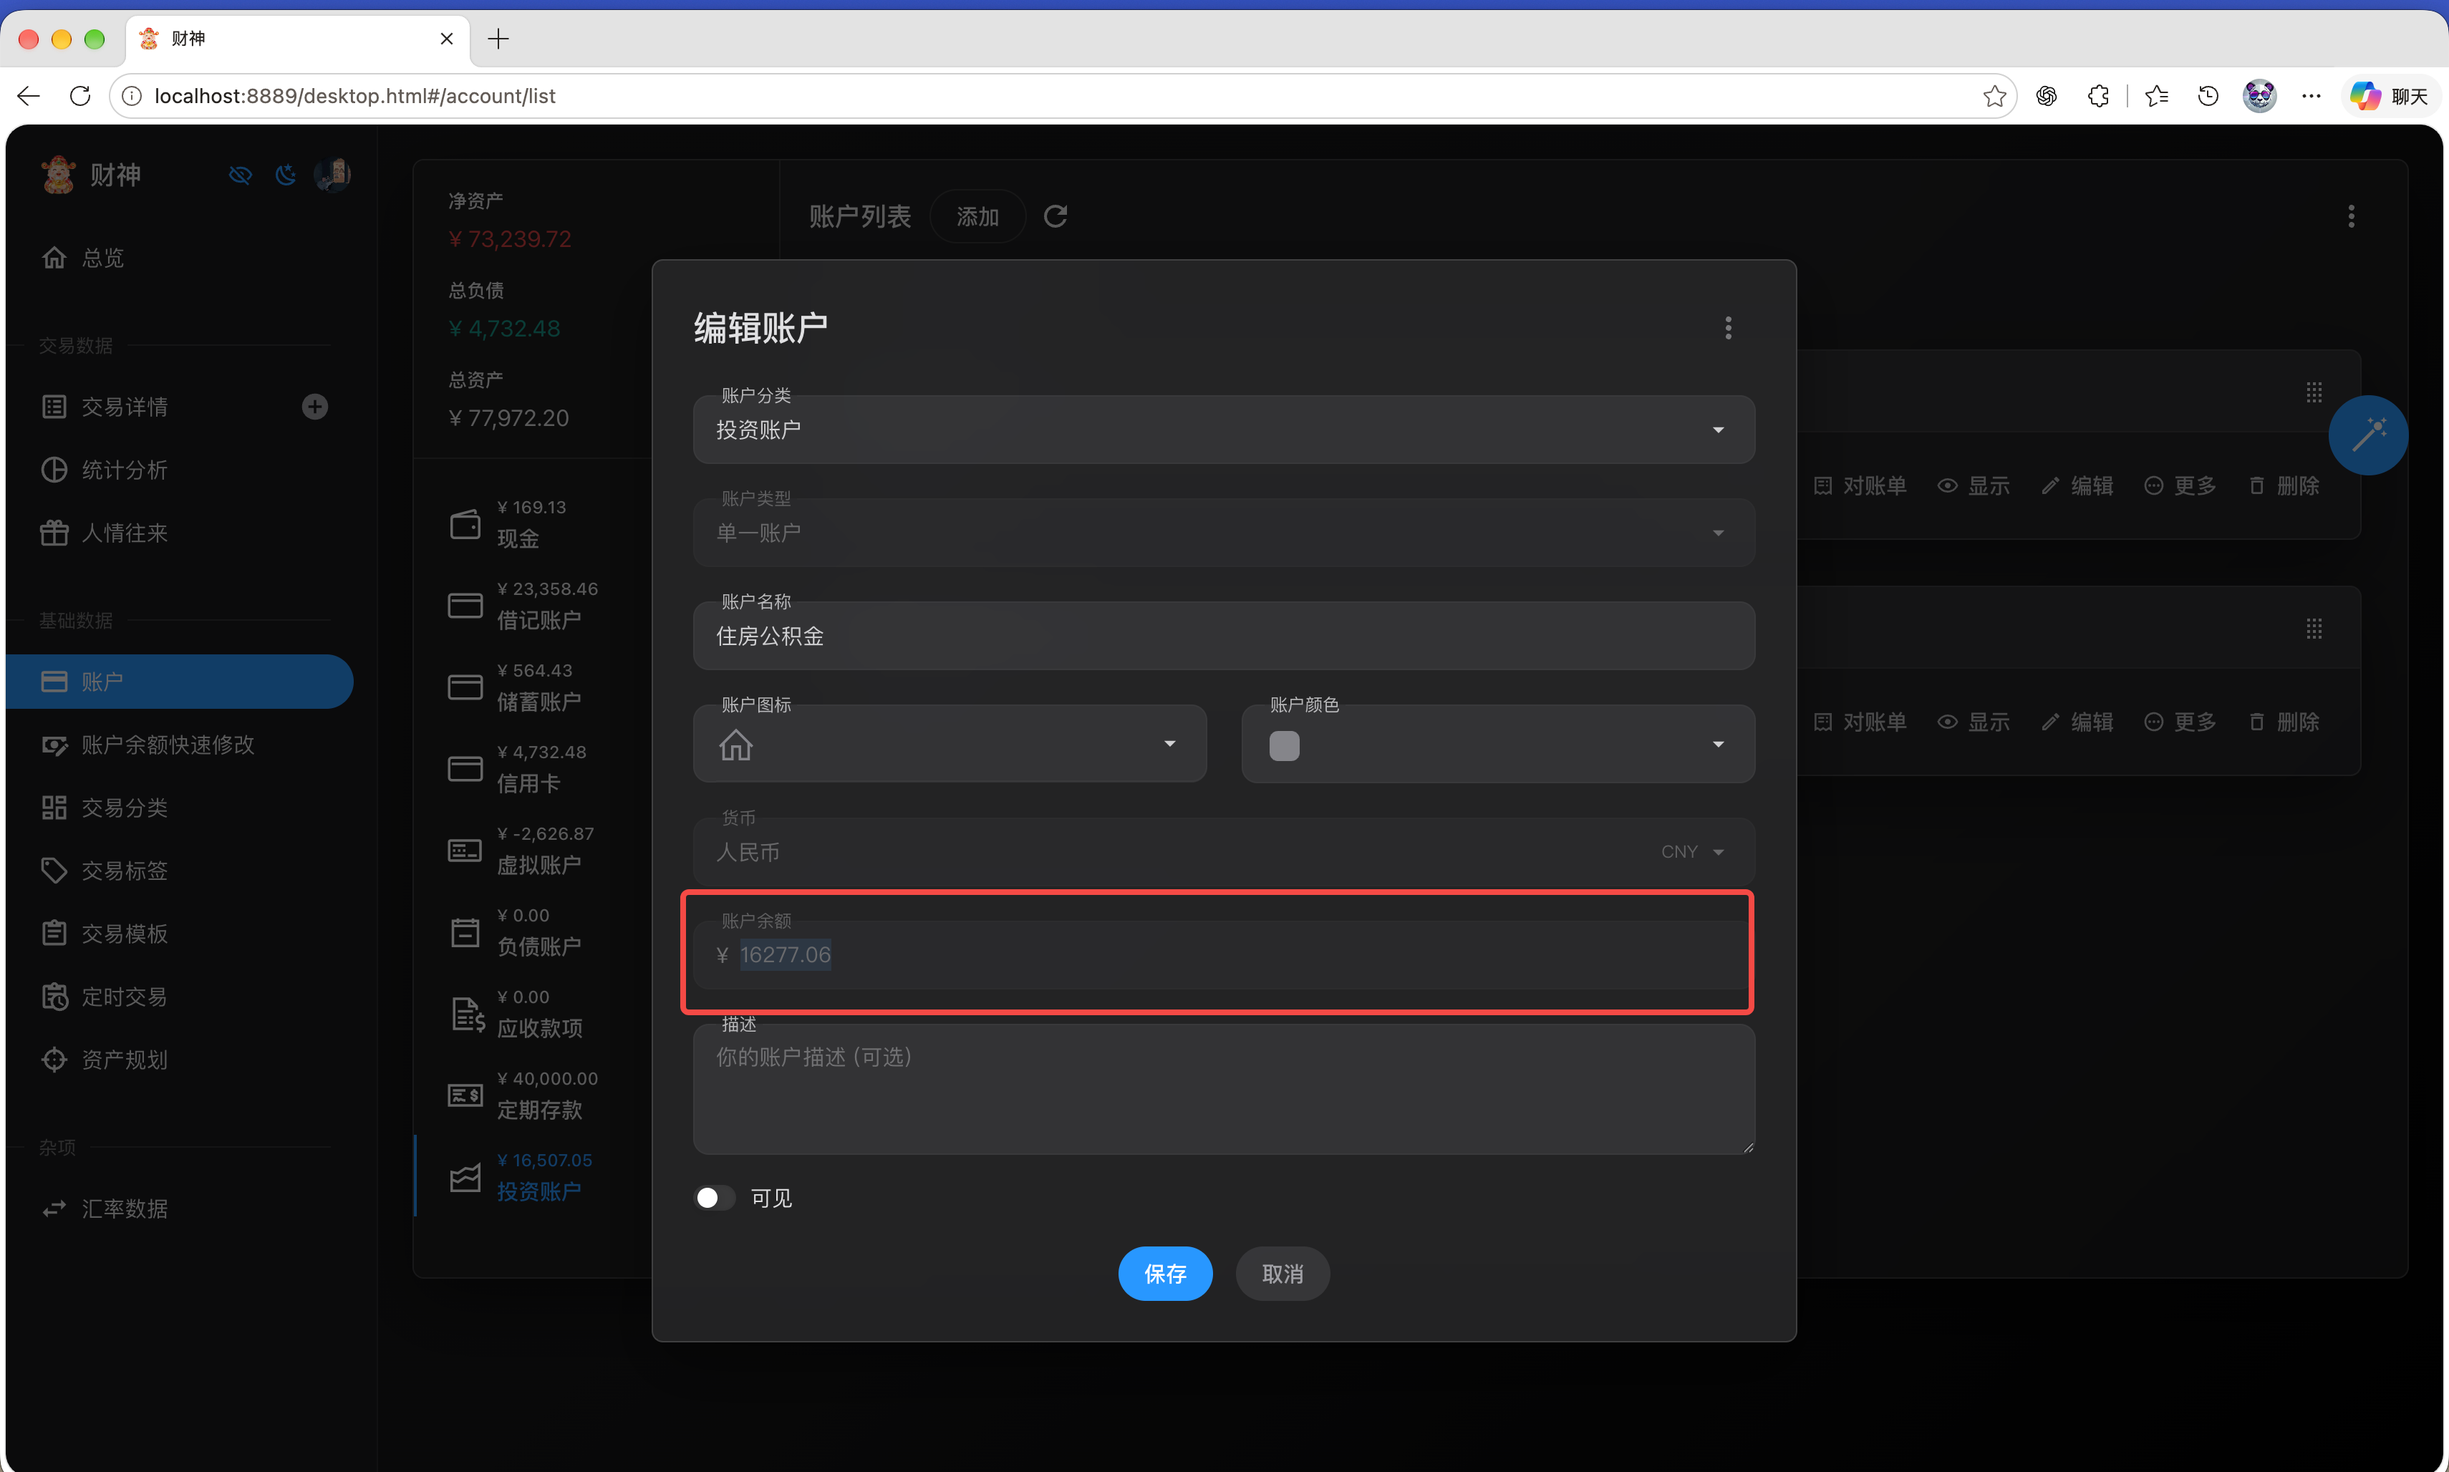
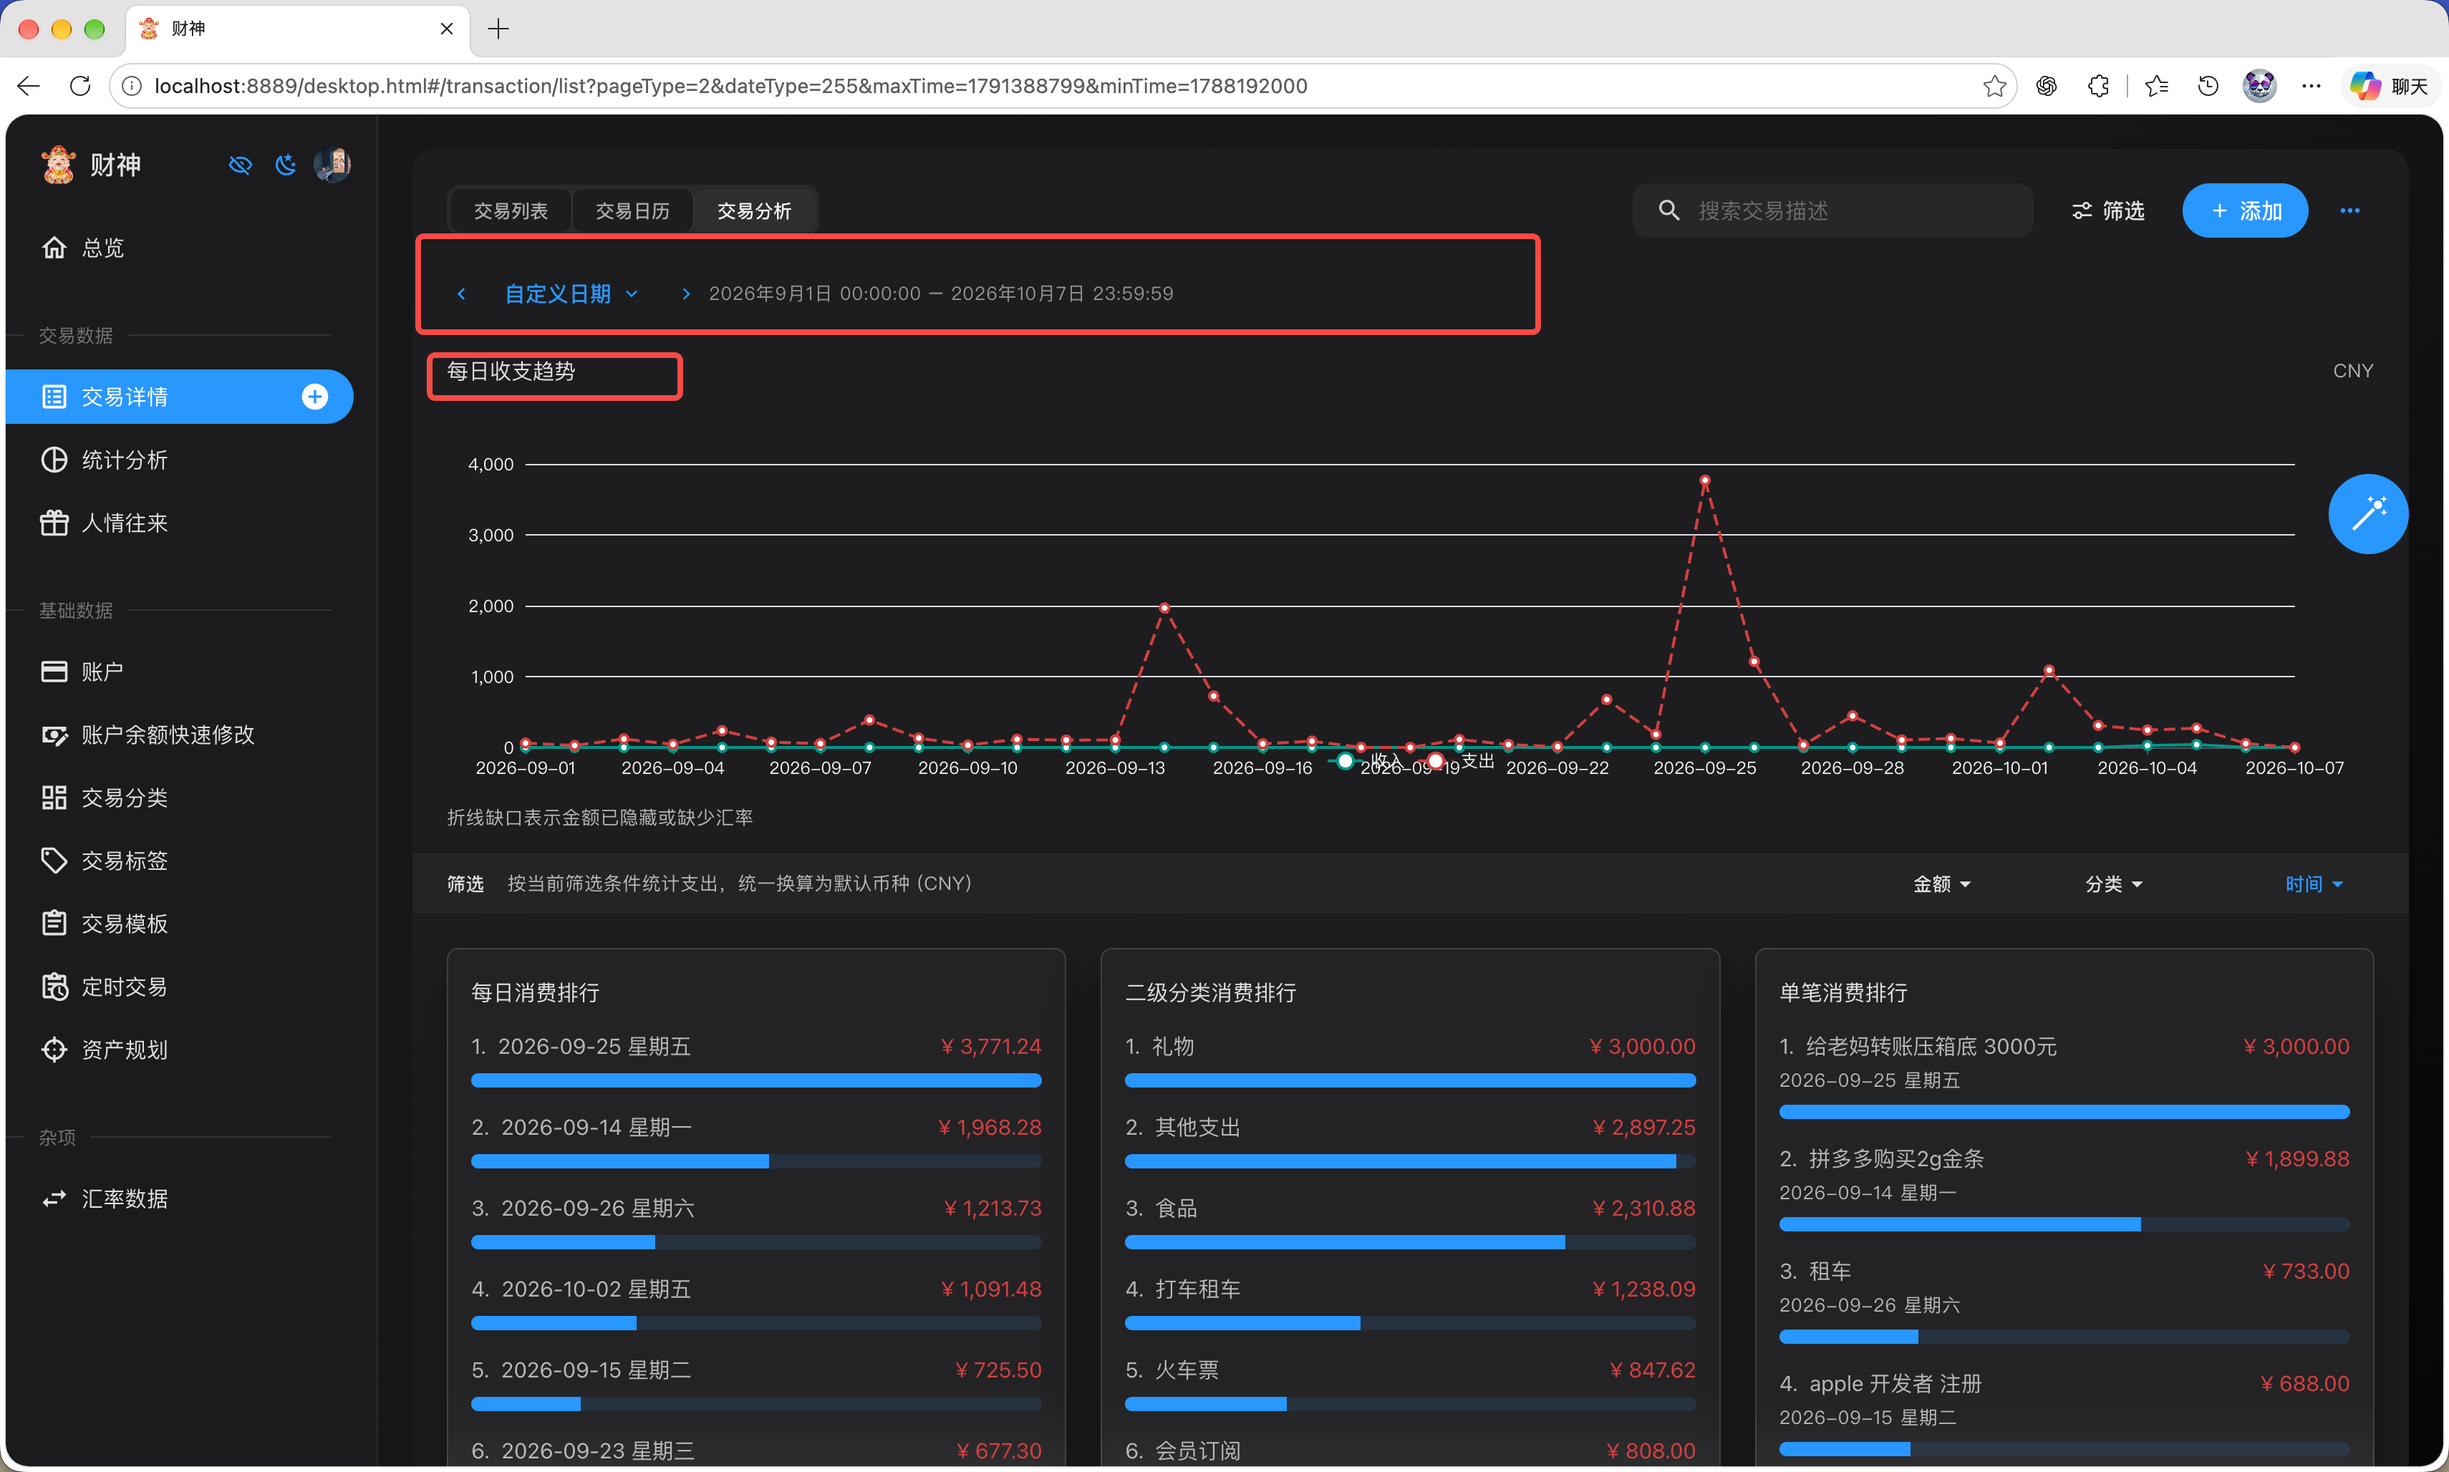
chore(agent): uncommitted changes from task

diff --git a/.multica/clarification.md b/.multica/clarification.md
@@ -1,0 +1,8 @@
+已定位到截图对应的桌面端交易分析页面。拟沿用现有样式实现：
+
+- 自定义日期增加最近一周、最近若干个月、最近 n 年，n 默认 1；范围截至今天。
+- 收支趋势增加每日、每周、每月、每年切换，默认每日，按所选日期范围汇总。
+
+请确认：“3n个月”是指最近 **n 个月**，还是最近 **3×n 个月**（n=1 时为最近 3 个月）？其余按上述方案实现可以吗？
+
+本次使用的 [product-design:get-context 技能](../codex-home/skills/product-design-get-context/SKILL.md)要求：“Proceed only after the user confirms the design brief”。因此先确认日期口径；尚未修改业务代码，任务暂标为待澄清。
